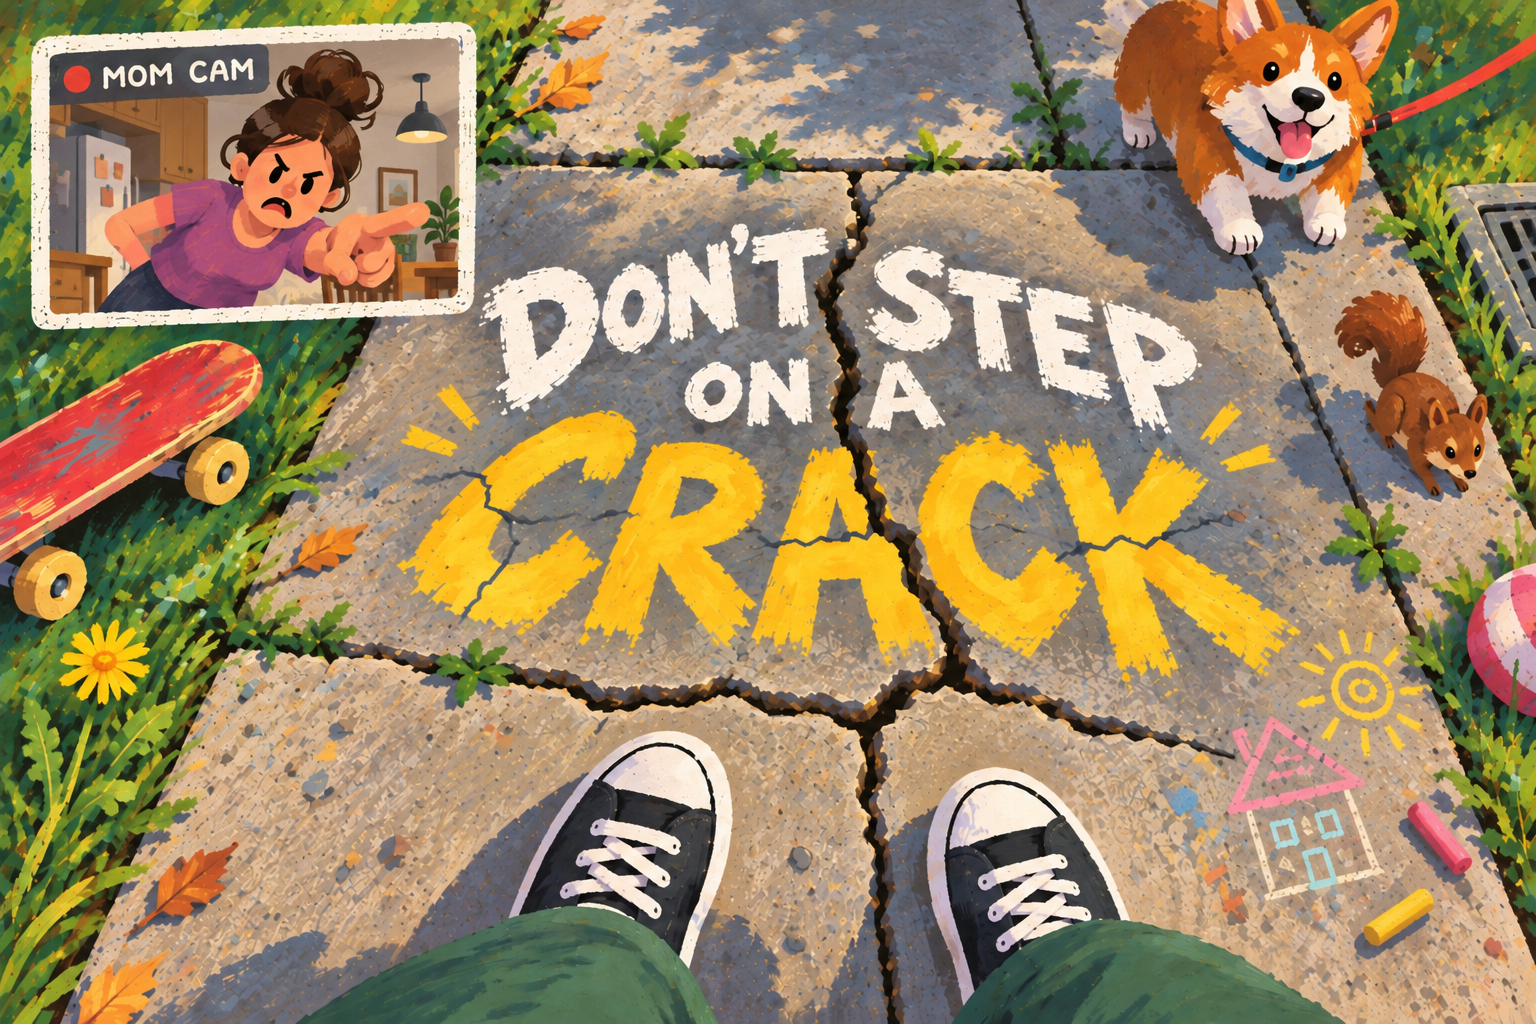
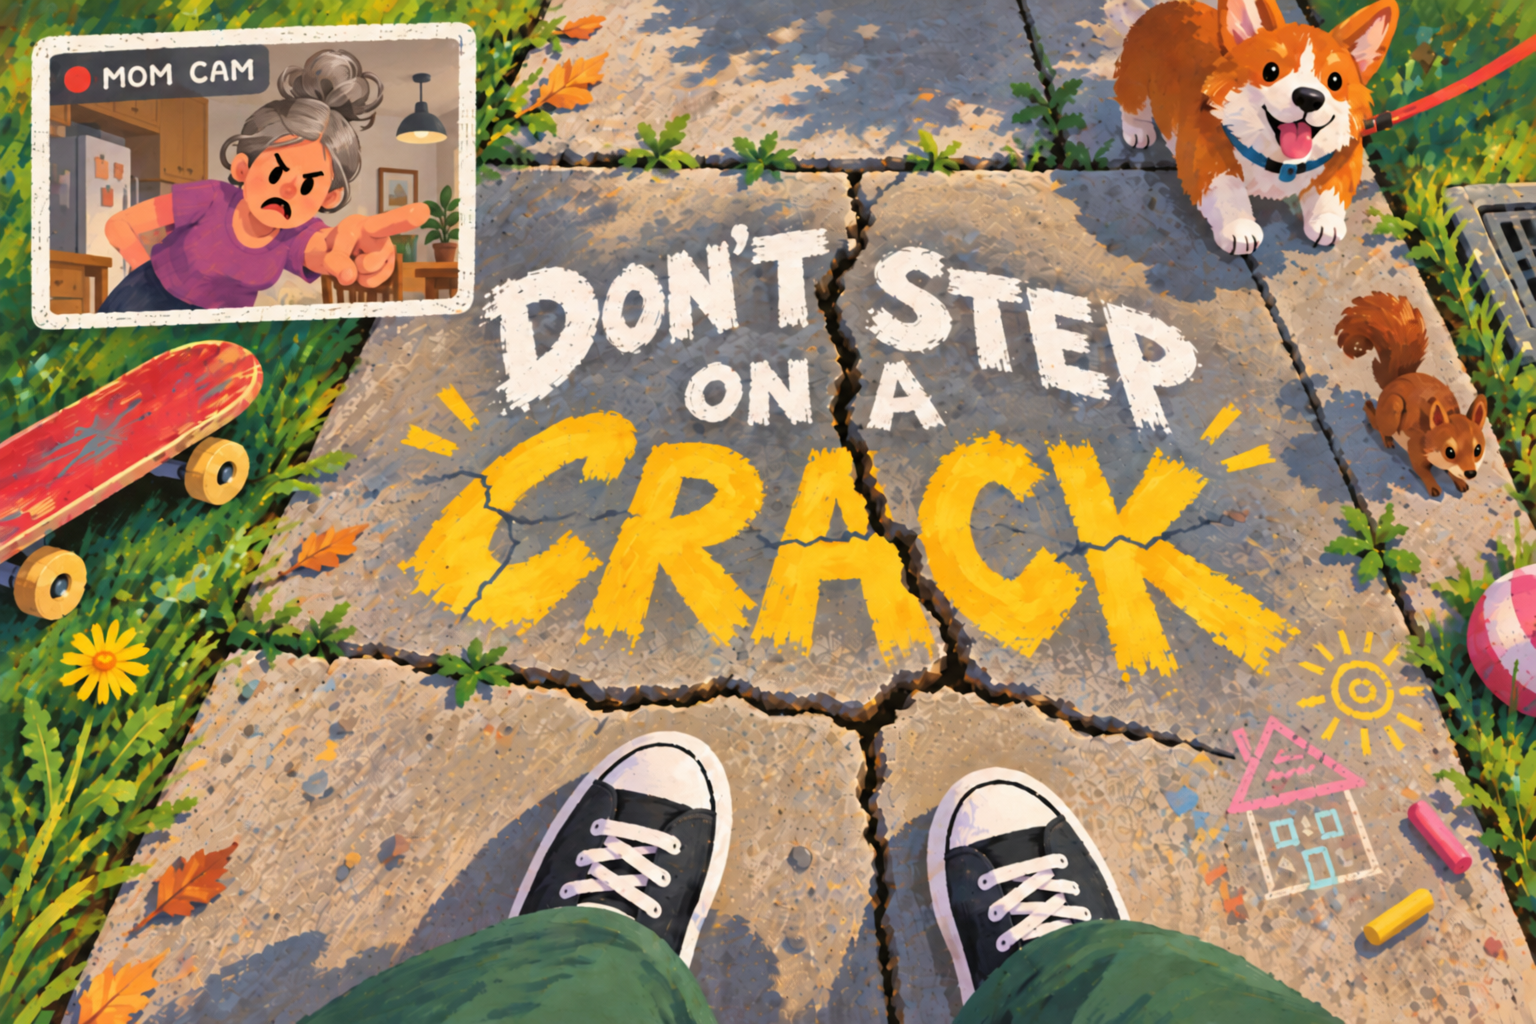
Don't Step on a Crack: Mom has grey hair on the cover (#44)
The same cover and crop, with Mom drawn with grey hair to match the game.
Rebuilt the thumbnail and card from it.

Claude-Session: https://claude.ai/code/session_01AVw4sV1pArg5jauhP2VhdW

diff --git a/site/dont-step-on-a-crack/index.html b/site/dont-step-on-a-crack/index.html
@@ -11,14 +11,14 @@
 <meta property="og:title" content="Don't Step on a Crack · JonniePeed Games">
 <meta property="og:description" content="Step on a crack, break your mother's back. Every one you step on folds Mom up a little more, and she'll be sure to make you feel bad about it.">
 <meta property="og:url" content="https://jonniepeed.games/dont-step-on-a-crack/">
-<meta property="og:image" content="https://jonniepeed.games/dont-step-on-a-crack/og.png?v=5b7463aa06">
+<meta property="og:image" content="https://jonniepeed.games/dont-step-on-a-crack/og.png?v=d70e60e962">
 <meta property="og:image:width" content="1200">
 <meta property="og:image:height" content="630">
 <meta property="og:image:alt" content="Don't Step on a Crack cover art: the title chalked across a cracked sidewalk above your sneakers, Mom glaring from the Mom Cam, beside the tagline">
 <meta name="twitter:card" content="summary_large_image">
 <meta name="twitter:title" content="Don't Step on a Crack · JonniePeed Games">
 <meta name="twitter:description" content="Step on a crack, break your mother's back. Every one you step on folds Mom up a little more, and she'll be sure to make you feel bad about it.">
-<meta name="twitter:image" content="https://jonniepeed.games/dont-step-on-a-crack/og.png?v=5b7463aa06">
+<meta name="twitter:image" content="https://jonniepeed.games/dont-step-on-a-crack/og.png?v=d70e60e962">
 <meta name="twitter:image:alt" content="Don't Step on a Crack cover art: the title chalked across a cracked sidewalk above your sneakers, Mom glaring from the Mom Cam, beside the tagline">
 <link rel="icon" href="../assets/favicon.ico?v=443c0101ac" sizes="any">
 <link rel="icon" type="image/png" href="../assets/favicon-32.png?v=569f3f592d">

diff --git a/site/index.html b/site/index.html
@@ -101,7 +101,7 @@ footer img{width:20px;height:22px;image-rendering:pixelated}
   <div class="shelf-head"><h2 id="shelfHeading" tabindex="-1">Games</h2><button id="sideA" type="button" hidden>Side A</button></div>
   <div class="grid">
     <a class="card pink" href="dont-step-on-a-crack/">
-      <div class="thumb"><img src="dont-step-on-a-crack/thumb.webp?v=440620b048" width="768" height="576" alt="Don't Step on a Crack cover: the title chalked across a cracked sidewalk above your sneakers, with Mom glaring from the Mom Cam and a corgi bounding in"></div>
+      <div class="thumb"><img src="dont-step-on-a-crack/thumb.webp?v=a95a4c17e6" width="768" height="576" alt="Don't Step on a Crack cover: the title chalked across a cracked sidewalk above your sneakers, with Mom glaring from the Mom Cam and a corgi bounding in"></div>
       <div class="info">
         <span class="tag">Game · phone or desktop</span>
         <h3>Don't Step on a Crack</h3>
